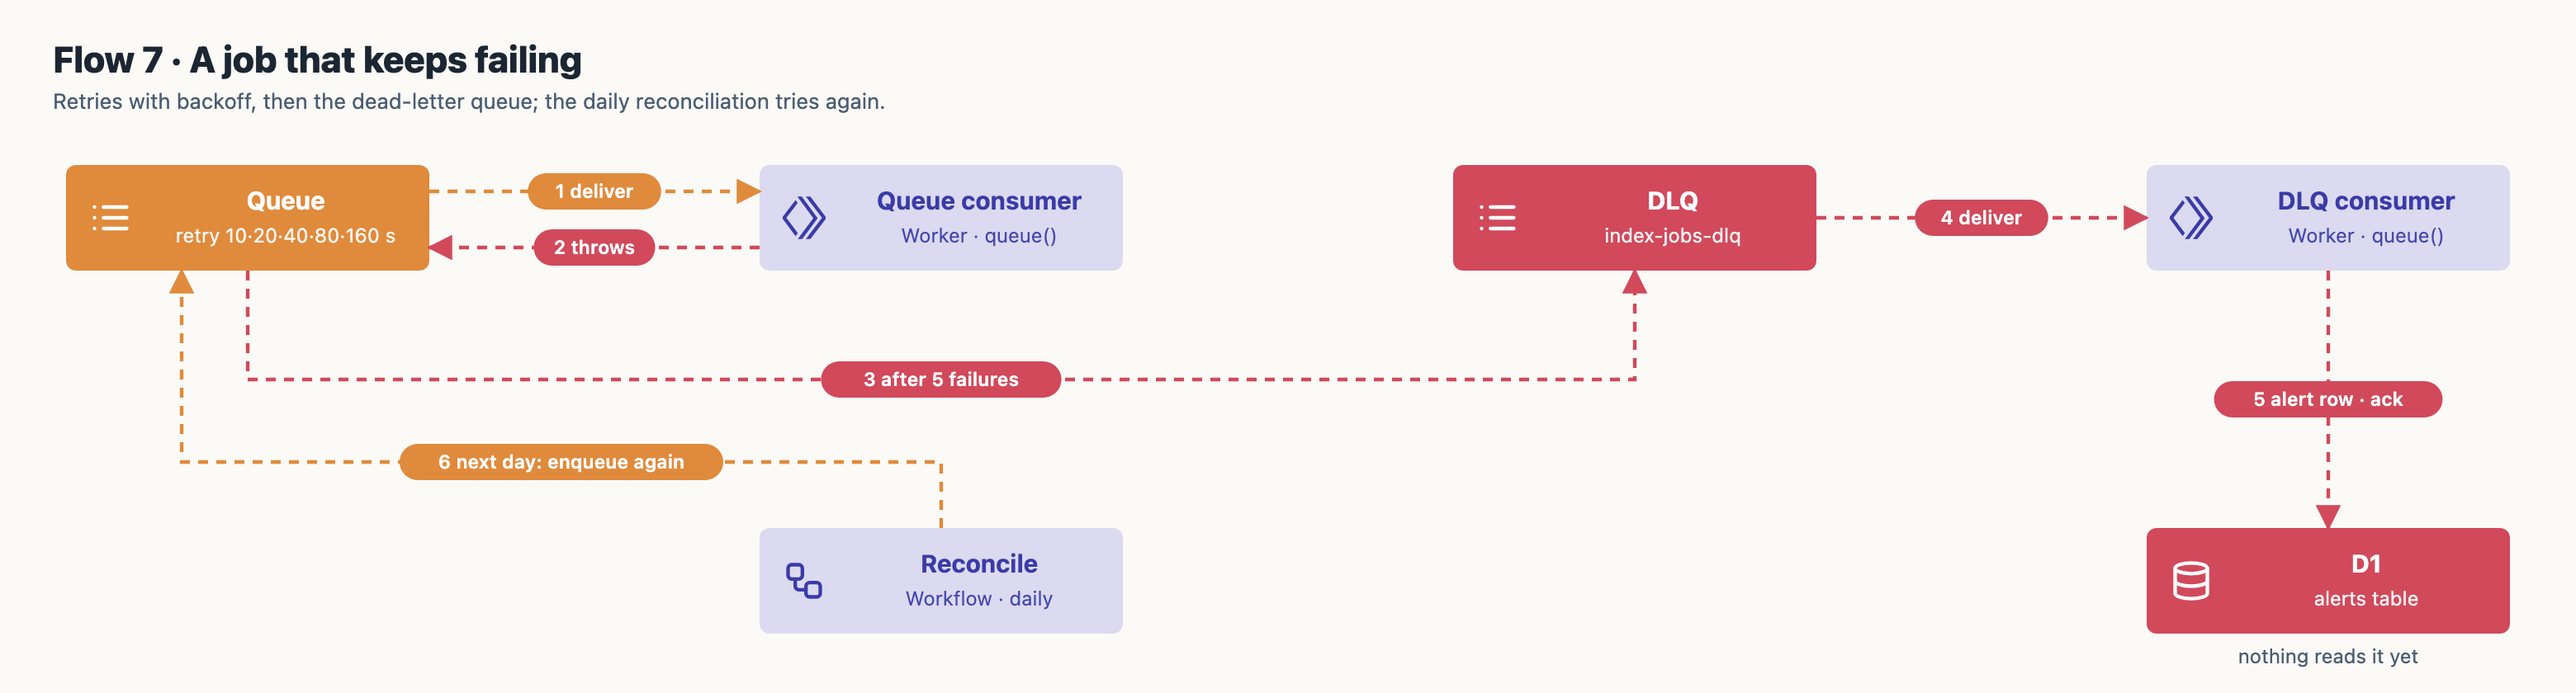
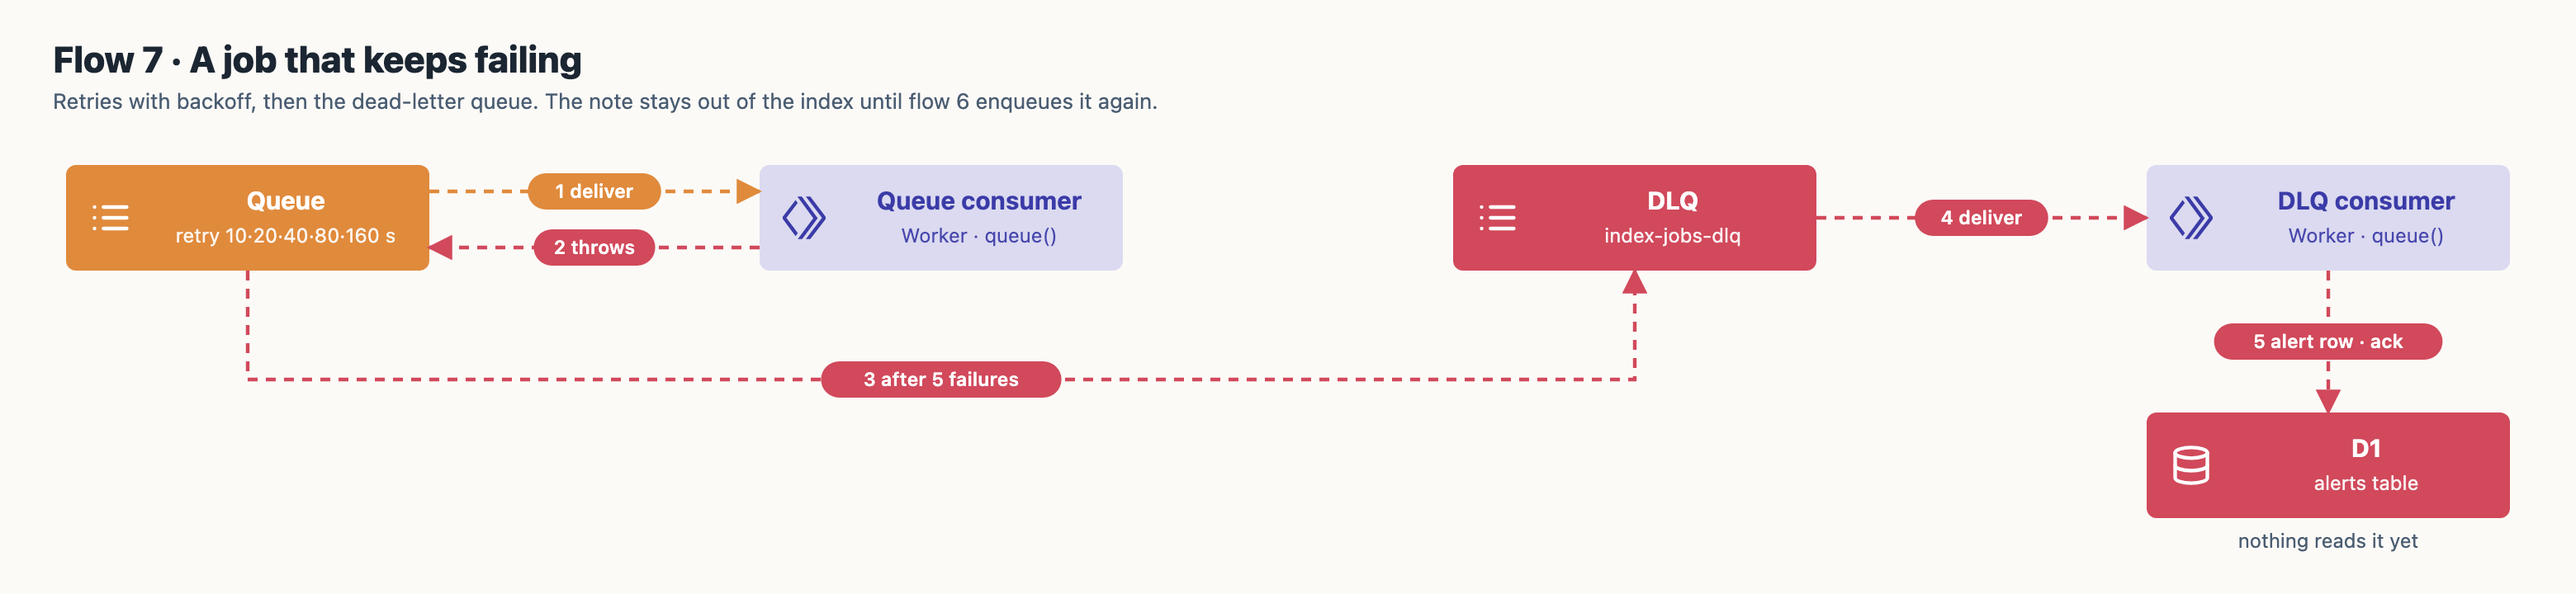
Architecture: failure flow ends at the DLQ; reconciliation is flow 6
Claude-Session: https://claude.ai/code/session_0171UdtAm1pRxwuhTFhKDhrM

diff --git a/docs/architecture/draw_flows.py b/docs/architecture/draw_flows.py
@@ -81,19 +81,17 @@ save("6-reconcile", 1160, 480, "Flow 6 · Reconciliation", "The schedule is a se
 ])
 
 # 7. failure
-save("7-failure", 1560, 420, "Flow 7 · A job that keeps failing", "Retries with backoff, then the dead-letter queue; the daily reconciliation tries again.", [
+save("7-failure", 1560, 360, "Flow 7 · A job that keeps failing", "Retries with backoff, then the dead-letter queue. The note stays out of the index until flow 6 enqueues it again.", [
     box(40, 100, "Queue", "retry 10·20·40·80·160 s", "orange", icons=("queue",)),
     box(460, 100, "Queue consumer", "Worker · queue()", "indigo", icons=("workers",), kind="part"),
     box(880, 100, "DLQ", "index-jobs-dlq", "red", icons=("queue",)),
     box(1300, 100, "DLQ consumer", "Worker · queue()", "indigo", icons=("workers",), kind="part"),
-    box(1300, 320, "D1", "alerts table", "red", "nothing reads it yet", icons=("database",)),
-    box(460, 320, "Reconcile", "Workflow · daily", "indigo", icons=("workflow",), kind="part"),
+    box(1300, 250, "D1", "alerts table", "red", "nothing reads it yet", icons=("database",)),
     arrow([(260, 116), (460, 116)], "1 deliver", flow="index"),
     arrow([(460, 150), (260, 150)], "2 throws", flow="fail"),
     arrow([(150, 164), (150, 230), (990, 230), (990, 164)], "3 after 5 failures", flow="fail"),
     arrow([(1100, 132), (1300, 132)], "4 deliver", flow="fail"),
-    arrow([(1410, 164), (1410, 320)], "5 alert row · ack", flow="fail"),
-    arrow([(570, 320), (570, 280), (110, 280), (110, 164)], "6 next day: enqueue again", flow="index"),
+    arrow([(1410, 164), (1410, 250)], "5 alert row · ack", flow="fail"),
 ])
 
 # 5. search
